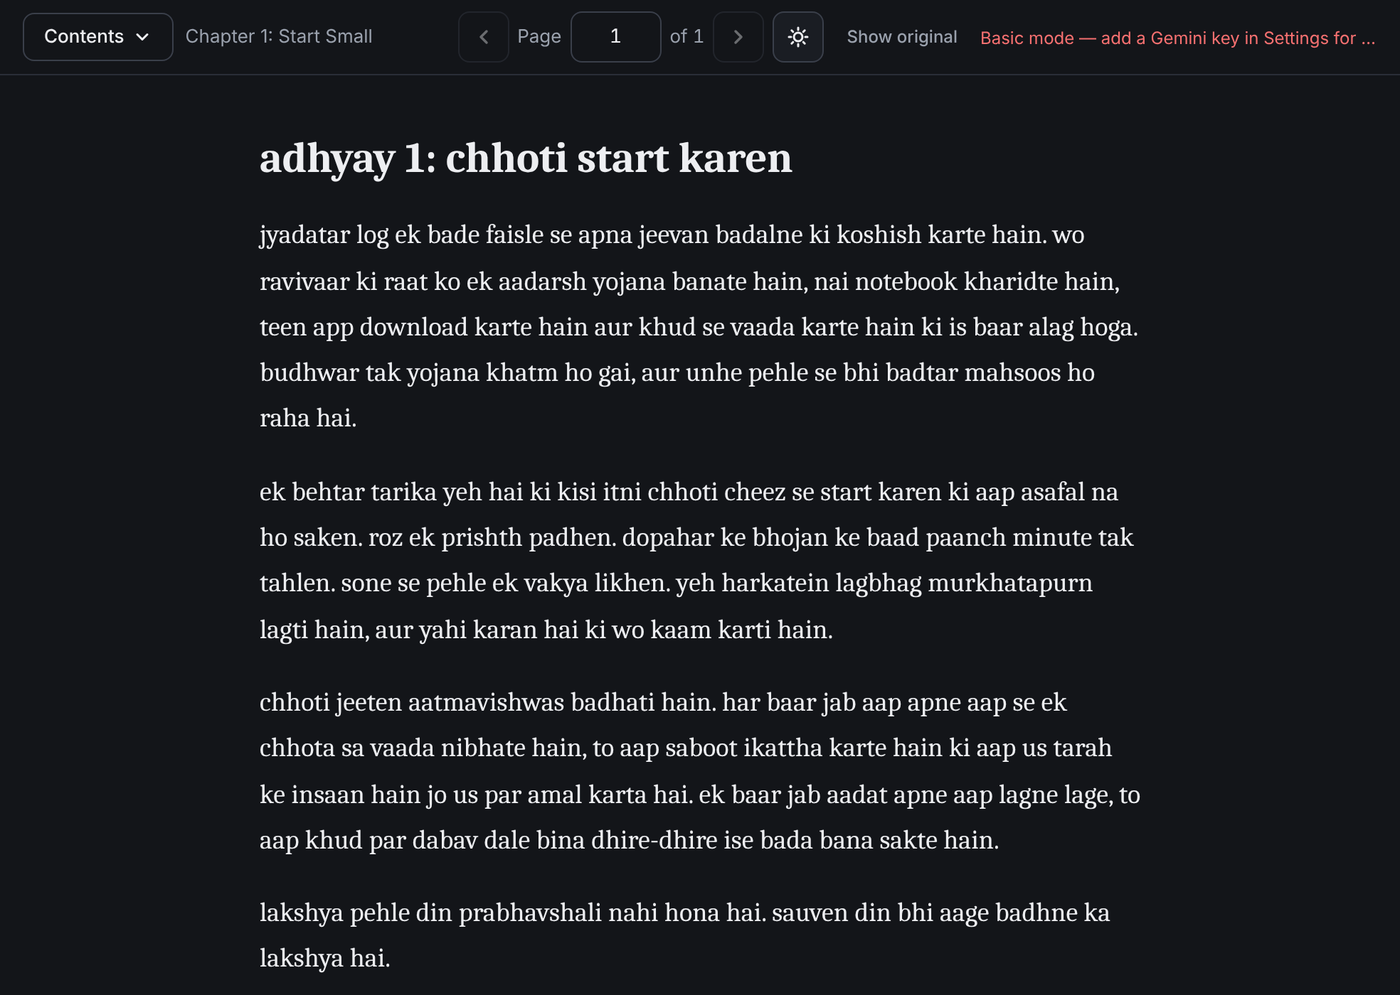
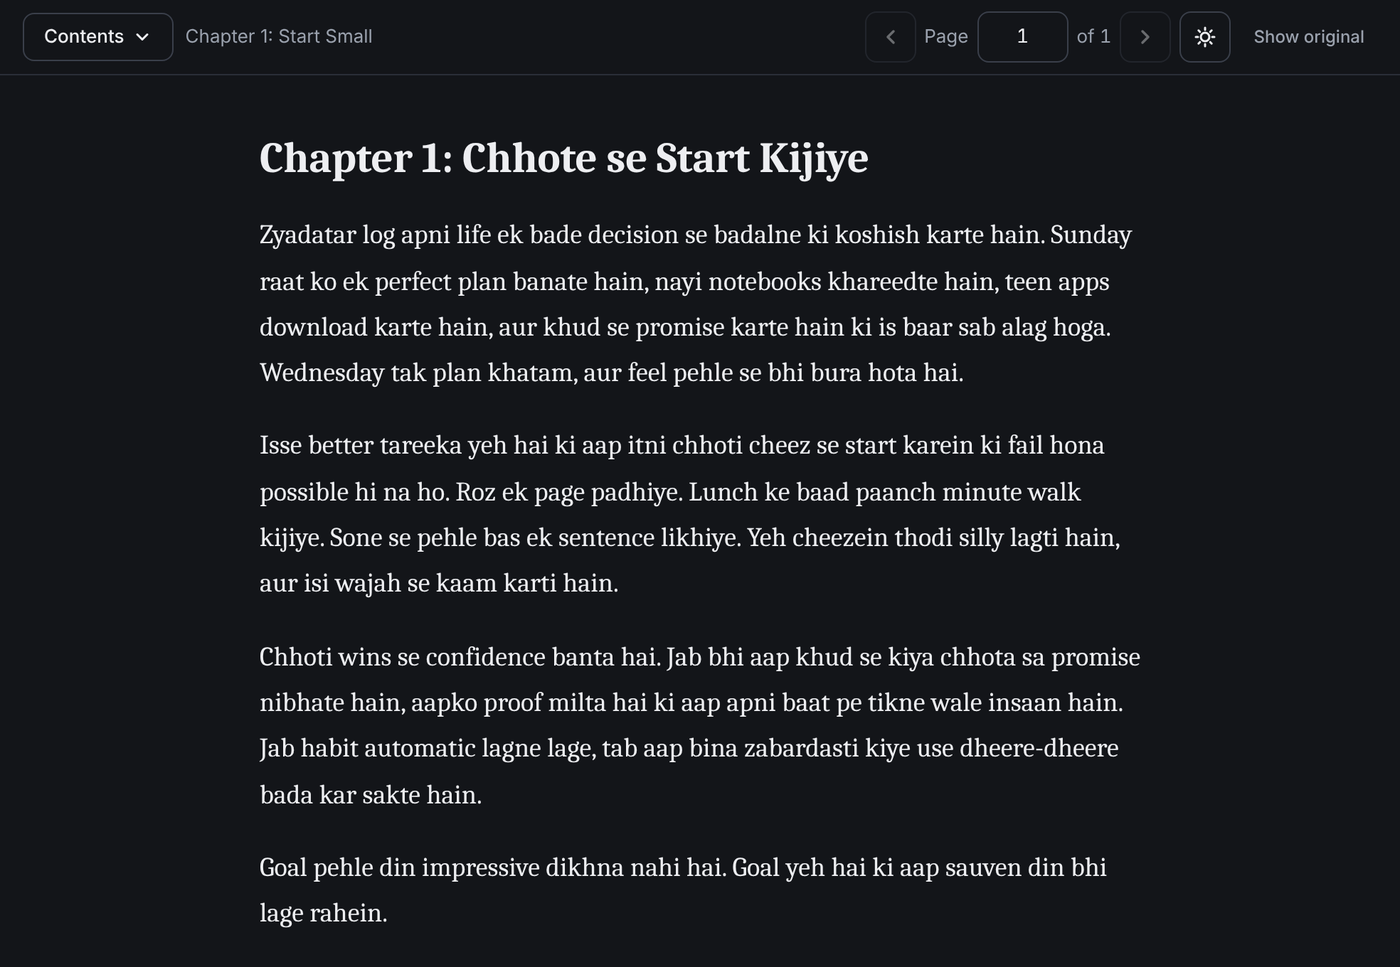
Put Gemini first: onboarding, popup link, README visuals
- Open the Settings page on first install so new users add a Gemini key.
- Popup footer shows an "Add free Gemini key" link when no key is saved
  (built with DOM nodes instead of innerHTML).
- Settings copy presents Basic mode as a limited backup.
- README: Gemini key is now install step 5; Basic-mode screenshot replaced
  with a Gemini-style reader illustration; popup screenshot shows Gemini.

diff --git a/popup.js b/popup.js
@@ -191,10 +191,21 @@ async function renderMeta() {
   // Footer mein ek hi line — poora card popup ko bahut lamba bana raha tha.
   // Detail Settings page pe hai, yahan sirf yaad dilaane bhar ka.
   if (geminiApiKey) {
-    metaInfo.innerHTML = `<b>Gemini</b> · ${count} today`;
+    const b = document.createElement("b");
+    b.textContent = "Gemini";
+    metaInfo.replaceChildren(b, ` · ${count} today`);
     metaInfo.title = "Using Gemini for natural, conversational Hinglish.";
   } else {
-    metaInfo.innerHTML = `<b>Basic</b> · no key`;
-    metaInfo.title = "Using Google Translate. Add a free Gemini key in Settings for much better quality.";
+    // Bina key ke Basic mode bas backup hai — yahan se seedha key wale page pe bhejo.
+    const link = document.createElement("a");
+    link.href = "#";
+    link.className = "meta-cta";
+    link.textContent = "Add free Gemini key →";
+    link.addEventListener("click", (e) => {
+      e.preventDefault();
+      chrome.runtime.openOptionsPage();
+    });
+    metaInfo.replaceChildren(link);
+    metaInfo.title = "Basic mode is a limited backup. A free Gemini key gives natural, conversational Hinglish.";
   }
 }

diff --git a/background.js b/background.js
@@ -505,12 +505,15 @@ if (typeof chrome !== "undefined" && chrome.runtime?.onMessage) {
 
 // ---- Right-click context menu: sirf selected text translate karo ----
 if (typeof chrome !== "undefined" && chrome.runtime?.onInstalled) {
-  chrome.runtime.onInstalled.addListener(() => {
+  chrome.runtime.onInstalled.addListener(({ reason }) => {
     chrome.contextMenus.create({
       id: "hinglish-selection",
       title: "Read in Hinglish",
       contexts: ["selection"],
     });
+    // Asli Hinglish sirf Gemini key se aati hai — pehli install pe seedha
+    // Settings kholo taaki naya user Basic mode ko hi "product" na samajh le.
+    if (reason === "install") chrome.runtime.openOptionsPage();
   });
 
   chrome.contextMenus.onClicked.addListener(async (info, tab) => {

diff --git a/options.html b/options.html
@@ -123,9 +123,10 @@
     <section class="card">
       <h2>Gemini API key</h2>
       <p class="desc">
-        The extension works without a key using Google Translate. Adding a free
-        Gemini key produces natural, conversational Hinglish instead. No credit
-        card required.
+        Hinglish Reader is built for Google Gemini: add a free key to get natural,
+        conversational Hinglish. It takes about 2 minutes and needs no credit
+        card. Without a key, a limited Basic mode (Google Translate) is used as a
+        backup.
       </p>
       <p class="desc">
         <b>Privacy:</b> the text you convert is sent to Google to be translated.

diff --git a/popup.html b/popup.html
@@ -77,6 +77,8 @@
       color: var(--faint);
     }
     .meta b { color: var(--muted); font-weight: 600; }
+    .meta-cta { color: var(--accent); font-weight: 600; text-decoration: none; }
+    .meta-cta:hover { text-decoration: underline; }
 
     .foot {
       display: flex;

diff --git a/README.md b/README.md
@@ -11,13 +11,13 @@
 
 <p align="center">
   <b>Read any English web page or PDF book in easy, everyday Hinglish.</b><br>
-  No account. No credit card. One click to convert, one click to go back.
+  Powered by Google Gemini. Free, no credit card. One click to convert, one click to go back.
 </p>
 
 <p align="center">
   <a href="#install-in-5-minutes">Install</a> ·
   <a href="#how-to-use">How to use</a> ·
-  <a href="#better-hinglish-with-a-free-gemini-key-optional">Gemini key</a> ·
+  <a href="#add-your-free-gemini-key-2-minutes">Gemini key</a> ·
   <a href="#privacy">Privacy</a> ·
   <a href="#troubleshooting">Troubleshooting</a>
 </p>
@@ -32,6 +32,7 @@
 
 ## Features
 
+- **Natural Hinglish, powered by Google Gemini.** Sounds the way people actually talk and text, and always addresses you respectfully as "aap".
 - **Web pages.** Convert any English article, blog or news page. Links, bold text and images stay where they were.
 - **PDF books.** Drop in a PDF and read it page by page, with a Contents menu, dark mode, and your last page remembered.
 - **Right-click.** Select any text, right-click, and choose **Read in Hinglish**.
@@ -41,7 +42,7 @@
 <table>
   <tr>
     <td width="32%" align="center"><img src="docs/images/popup.png" alt="Toolbar popup" width="260"><br><sub>Toolbar popup</sub></td>
-    <td width="68%" align="center"><img src="docs/images/pdf-reader.png" alt="PDF reader in dark mode" width="560"><br><sub>PDF reader, dark mode (Basic mode output, without a Gemini key)</sub></td>
+    <td width="68%" align="center"><img src="docs/images/pdf-reader.png" alt="PDF reader in dark mode" width="560"><br><sub>PDF reader, dark mode (illustration of Gemini-mode Hinglish)</sub></td>
   </tr>
 </table>
 
@@ -82,7 +83,11 @@ Hinglish Reader is not on the Chrome Web Store yet, so you install it once by ha
 
 ### Step 4: Pin it to your toolbar
 
-Click the puzzle icon 🧩 at the top-right of Chrome, then the pin 📌 next to **Hinglish Reader**. A purple **H** icon appears in your toolbar. You're done. ✅
+Click the puzzle icon 🧩 at the top-right of Chrome, then the pin 📌 next to **Hinglish Reader**. A purple **H** icon appears in your toolbar.
+
+### Step 5: Add your free Gemini key
+
+The Settings page opens by itself after install. Follow the [Gemini key steps below](#add-your-free-gemini-key-2-minutes) (about 2 minutes, no credit card). You're done. ✅
 
 ---
 
@@ -107,9 +112,9 @@ Select the text, right-click, and choose **Read in Hinglish**.
 
 ---
 
-## Better Hinglish with a free Gemini key (optional)
+## Add your free Gemini key (2 minutes)
 
-Without a key, Hinglish Reader uses **Basic mode** (Google Translate). Basic mode works, but it tends to produce formal, textbook Hindi. For **natural, conversational Hinglish**, add a free Google Gemini key. It takes about 2 minutes and needs no credit card.
+Hinglish Reader is built for Google Gemini. A free key is what gives you **natural, conversational Hinglish**. It takes about 2 minutes and needs no credit card.
 
 1. Click the **H** icon, then **Settings** (top-right).
 2. Open [aistudio.google.com/apikey](https://aistudio.google.com/apikey) and sign in with your Google account.
@@ -122,7 +127,8 @@ When you see **Everything works**, you're ready.
   <img src="docs/images/settings.png" alt="Settings page where you paste your Gemini key" width="560">
 </p>
 
-- **It stays free.** Free keys have no billing. If you reach the daily limit, the extension switches to Basic mode on its own, so pages never go blank.
+- **It stays free.** Free keys have no billing.
+- **Backup only.** If the key is missing or today's limit is used up, a limited Basic mode (Google Translate) keeps pages readable until Gemini is back. It sounds more formal, so keep your key added.
 - **Daily reset.** The limit resets at midnight Pacific time (around 12:30 PM or 1:30 PM in India). The extension shows the exact reset time in your own time zone.
 - **Keep your key private.** Never share it or post it online. It's stored only in Chrome on your computer.
 
@@ -161,7 +167,7 @@ To turn it off on any site: click the **H** icon, then **Disable on this site**.
 | "Manifest file is missing or unreadable" | You picked the wrong folder. Choose the one that contains `manifest.json` (see the tip in Step 3). |
 | The extension disappeared | The folder was moved or deleted. Repeat the install from Step 1. |
 | Nothing changed after clicking Convert | Reload the page and click **Convert to Hinglish** again. |
-| The corner button says "Basic mode" or "Limit reached" | No Gemini key, or today's free limit is used up. Basic mode keeps working until it resets. |
+| The corner button says "Basic mode" or "Limit reached" | No Gemini key yet (add it in Settings), or today's free limit is used up and it resets later today. |
 
 ## Updating
 
@@ -180,7 +186,6 @@ Open `chrome://extensions`, find Hinglish Reader, and click **Remove**. You can 
 ## Good to know
 
 - Not every sentence will be perfect, especially very technical or very long ones.
-- Basic mode (no key) will always sound more formal. Natural Hinglish needs a Gemini key.
 - Tested on desktop Google Chrome.
 
 Found a problem or have an idea? [Open an issue](https://github.com/TKM649/HINGLISH-EXTENSION/issues).

diff --git a/CLAUDE.md b/CLAUDE.md
@@ -54,6 +54,11 @@ inside the page's CORS context and can't `fetch` these endpoints).
   `translateGoogleRaw()` halves the batch and retries instead of failing all of
   it; only a segment that fails on its own comes back `null`.
 
+Gemini is the product; Basic mode is only a backup. On first install
+`background.js` opens the Settings page, and the popup footer shows an
+"Add free Gemini key" link when no key is saved. README and screenshots should
+show Gemini output, never Basic-mode text ("adhyay"-style Hindi puts users off).
+
 `handleTranslateBatch()` picks the mode and always returns a `warning` field
 (`"no-key"` / `"gemini-failed"`) alongside results. The fallback is deliberately
 **not silent** — the content script surfaces it in the status pill, because a
